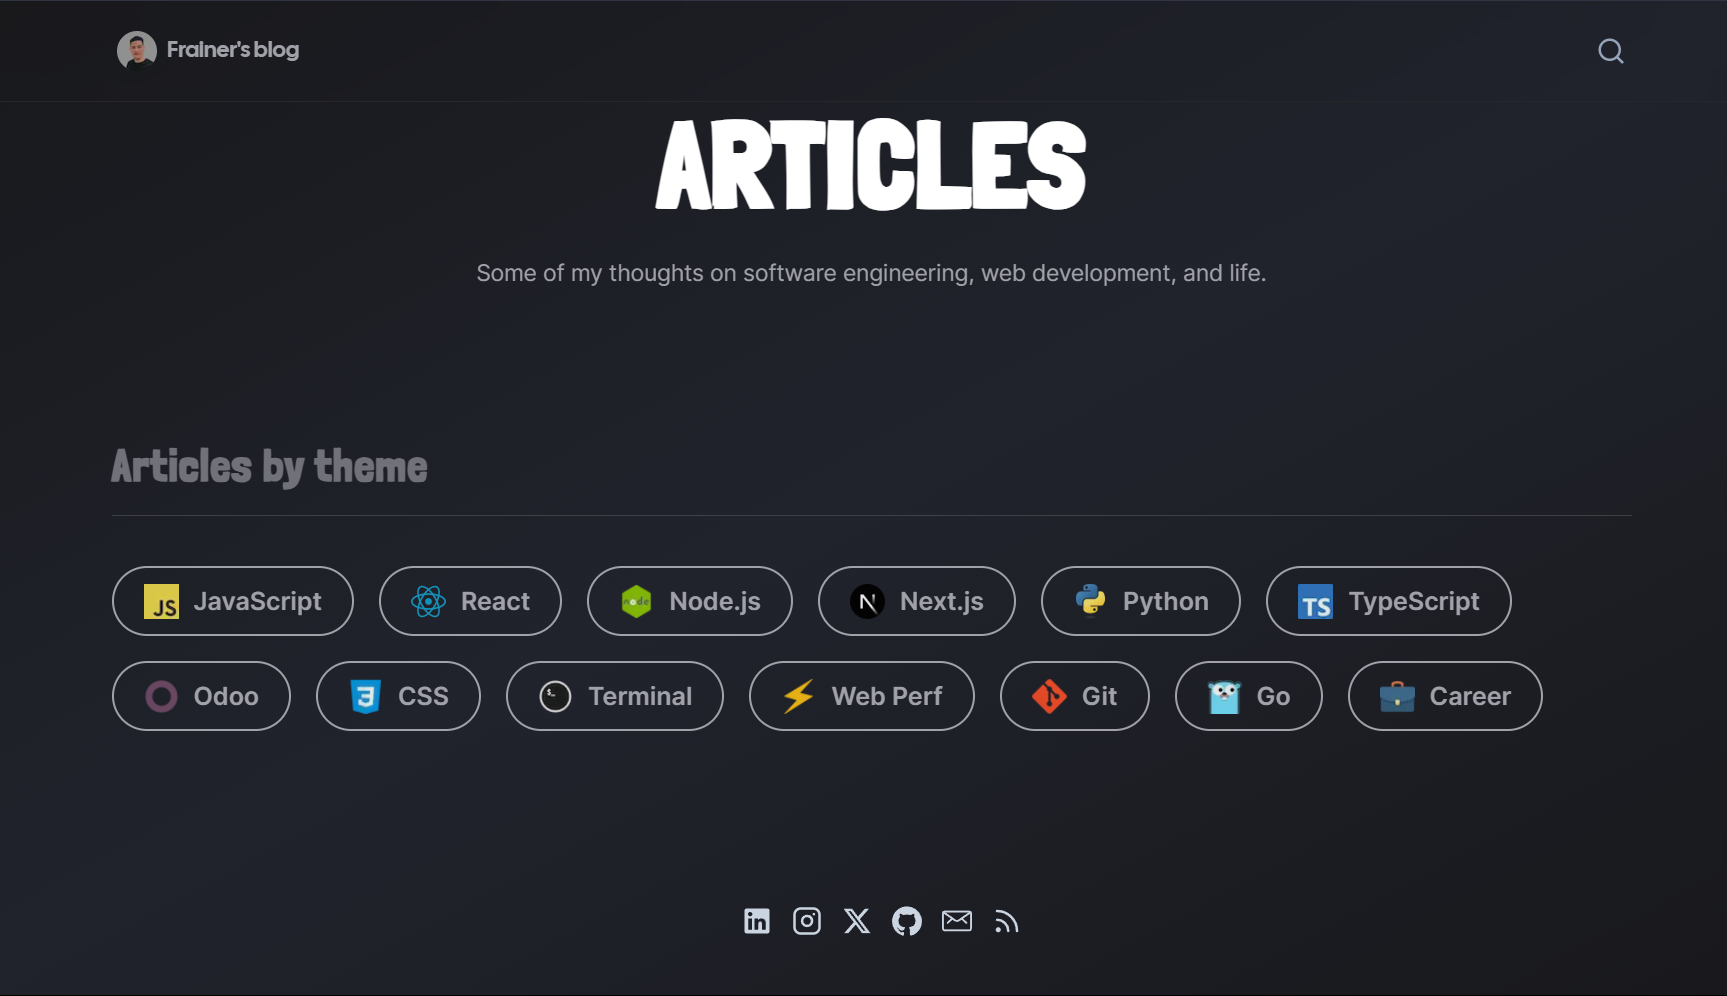
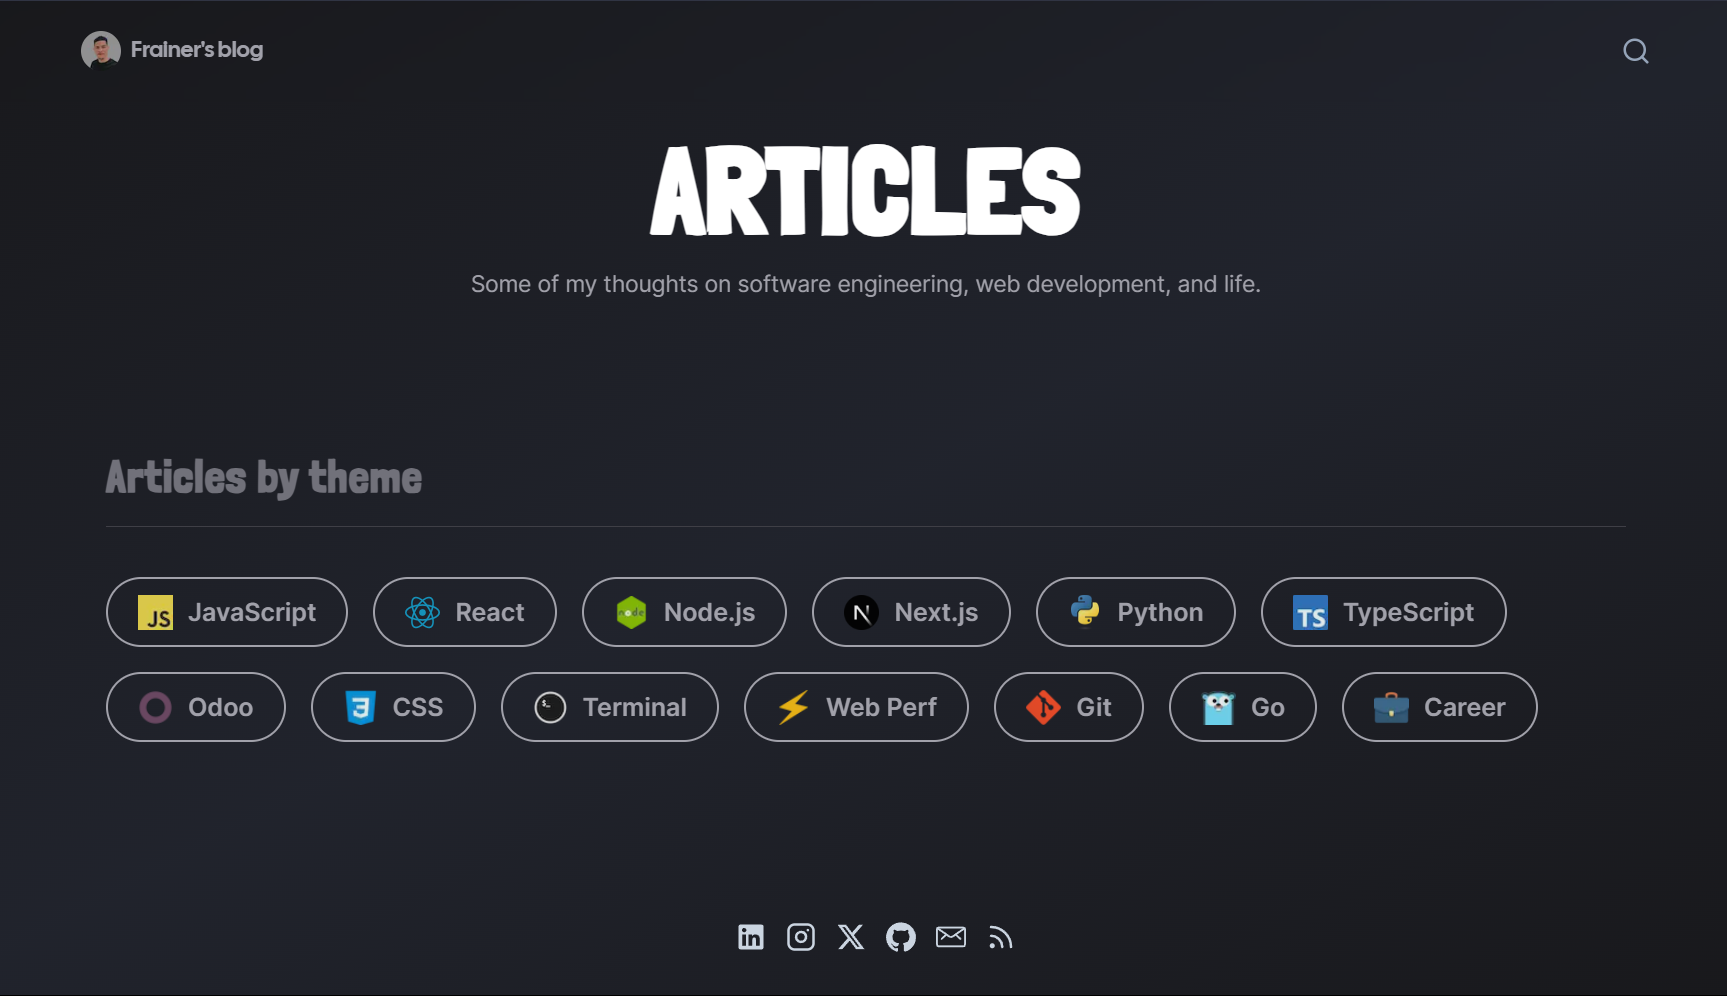
feat: aply all the mobile styles to make the complete web responsive

diff --git a/app/[slug]/page.tsx b/app/[slug]/page.tsx
@@ -77,10 +77,10 @@ export default async function PostPage ({ params }: Props) {
 
   return (
     <>
-      <section className='min-h-screen max-w-4xl mx-auto px-8 text-zinc-300'>
+      <section className='min-h-screen max-w-6xl md:max-w-4xl mx-auto px-4 md:px-8 text-zinc-300'>
         <Header post={post} views={views} />
         <ReportView slug={post.slug} />
-        <header className='mx-auto max-w-3xl text-center content pt-20 sm:pt-28'>
+        <header className='mx-auto max-w-3xl text-center content pt-20 md:pt-28'>
           <h1 className='text-white mb-8'>{post.title}</h1>
         </header>
 
@@ -94,8 +94,8 @@ export default async function PostPage ({ params }: Props) {
           height={427}
         />
 
-        <small className='text-zinc-400 flex flex-col font-bold uppercase sm:flex-row text-center pb-8 place-content-center py-6 px-6'>
-          <span className='mb-2 sm:mb-0'>
+        <small className='text-xs md:text-sm text-zinc-400 flex flex-col font-bold uppercase md:flex-row text-center pb-8 place-content-center py-6 md:px-6'>
+          <span className='mb-2 md:mb-0'>
             {post.updated && <span>Updated on</span>}{' '}
             <time
               dateTime={new Date(post.updated || post.date).toISOString()}
@@ -107,11 +107,29 @@ export default async function PostPage ({ params }: Props) {
                 dateStyle: 'medium'
               }).format(new Date(post.updated || post.date))}
             </time>{' '}
-            <span className='px-4'>•</span>
-            <span>{post.readTime} min read</span>
+            <span className='px-1 md:px-4'>•</span>
+            <span className='me-2 md:me-0'>{post.readTime} min read</span>
+            {post.tags &&
+              post.tags.slice(0, 2).map((tagName, index) => {
+                const tag = allTags.find(tag => tag.name === tagName)
+                return (
+                  <>
+                    <Link
+                      key={index}
+                      href={`/tags/${tag?.name || tagName}`}
+                      className='text-hot-pink font-bold underline underline-offset-4 py-3 md:px-1 hover:text-white text-xs inline md:hidden'
+                    >
+                      {tag?.label || tagName}
+                    </Link>
+                    {index !== (post.tags?.length ?? 0) - 1 && (
+                      <span className='px-1 inline md:hidden'>•</span>
+                    )}
+                  </>
+                )
+              })}
           </span>
-          <span className='hidden px-4 sm:block'>|</span>
-          <div className='flex flex-wrap'>
+          <span className='hidden px-1 md:px-4 md:block'>|</span>
+          <div className='hidden md:flex flex-wrap px-1 text-center place-content-center'>
             {post.tags &&
               post.tags.map((tagName, index) => {
                 const tag = allTags.find(tag => tag.name === tagName)
@@ -119,7 +137,7 @@ export default async function PostPage ({ params }: Props) {
                   <div key={index}>
                     <Link
                       href={`/tags/${tag?.name || tagName}`}
-                      className='text-hot-pink font-bold underline underline-offset-4 py-3 px-1 hover:text-white'
+                      className='text-hot-pink font-medium md:font-bold underline underline-offset-4 py-3 md:px-1 hover:text-white'
                     >
                       {tag?.label || tagName}
                     </Link>
@@ -132,11 +150,11 @@ export default async function PostPage ({ params }: Props) {
           </div>
         </small>
 
-        <article className='px-6 content pb-12'>
+        <article className='px-2 md:px-6 content pb-12'>
           <Mdx code={post.body.code} />
         </article>
+        <Subscribe />
       </section>
-      <Subscribe />
     </>
   )
 }

diff --git a/app/components/search/blog-card.tsx b/app/components/search/blog-card.tsx
@@ -13,39 +13,39 @@ export function BlogCard ({ blog }: Props) {
       tabIndex={0}
       data-testid='blog-search-result'
       href={blog.slug}
-      className='block px-2 focus:outline-none border-slate-600 hover:bg-slate-700 focus:bg-slate-600 rounded max-w-5xl mr-5'
+      className='block px-2 focus:outline-none border-slate-600 hover:bg-slate-700 focus:bg-slate-600 rounded md:max-w-5xl md:mr-5'
     >
       <div className='flex flex-col items-start justify-between py-8 border-slate-700 md:flex-row md:py-5 border-b '>
-        <div className='md:mr-4 w-3/4'>
-          <h1 className='mb-2 break-words text-2xl font-bold leading-normal tracking-tighthn-break-words text-slate-300 font-londrina'>
+        <div className='md:mr-4 md:w-3/4'>
+          <h1 className='mb-2 break-words text-2xl font-bold leading-normal tracking-tighthn-break-words text-slate-300 font-londrina text-center md:text-left'>
             {blog.title}
           </h1>
-          <div className='mb-4 flex flex-row flex-wrap items-center font-medium text-slate-400 pr-5'>
+          <div className='mb-4 flex flex-row flex-wrap items-center font-medium text-slate-400 md:pr-5'>
             <p className='inline-block'>{blog.description}</p>
           </div>
-          <small className='mb-4 text-slate-300 flex flex-col font-bold uppercase sm:flex-row text-center'>
+          <small className='mb-4 text-slate-300 flex flex-col font-semibold md:font-bold uppercase sm:flex-row md:text-center text-sx md:text-sm'>
             <span className='mb-2 sm:mb-0'>
               {blog.updated && <span>Updated on</span>}{' '}
               <time
                 dateTime={new Date(blog.updated || blog.date).toISOString()}
                 className={`${
-                  blog.updated ? 'underline underline-offset-4' : undefined
+                  blog.updated ? 'underline underline-offset-4 text-xs' : undefined
                 }`}
               >
                 {Intl.DateTimeFormat(undefined, {
                   dateStyle: 'medium'
                 }).format(new Date(blog.updated || blog.date))}
               </time>{' '}
-              <span className='px-4'>•</span>
+              <span className='px-1 md:px-4'>•</span>
               <span>{blog.readTime} min read</span>
             </span>
             <span className='hidden px-4 sm:block'>|</span>
-            <div className='flex flex-wrap'>
+            <div className='md:flex flex-wrap text-xs md:text-sm py-2 md:py-0'>
               {blog.tags &&
                 blog.tags.map((tagName, index) => {
                   const tag = allTags.find(tag => tag.name === tagName)
                   return (
-                    <div key={index}>
+                    <span key={index}>
                       <Link
                         href={`/tags/${tag?.name}`}
                         className='text-hot-pink font-bold underline underline-offset-4 py-3 px-1 hover:text-white'
@@ -55,14 +55,14 @@ export function BlogCard ({ blog }: Props) {
                       {index !== (blog.tags?.length ?? 0) - 1 && (
                         <span className='px-1'>•</span>
                       )}
-                    </div>
+                    </span>
                   )
                 })}
             </div>
           </small>
         </div>
         <Image
-          className='w-1/4 shrink-0 rounded-xlmd:w-64 h-full pr-3 rounded-md'
+          className='w-[98%] md:w-1/4 shrink-0 rounded-xlmd:w-64 h-full md:pr-3 rounded-lg'
           alt={blog.title}
           src={blog.hero}
           height={200}

diff --git a/app/components/tags/articles-by-tags.tsx b/app/components/tags/articles-by-tags.tsx
@@ -2,6 +2,7 @@ import Link from 'next/link'
 import { ReactIcon } from '../common/svg-icons'
 import Image from 'next/image'
 import { displayTags, allTags } from '@/util/data'
+import React from 'react'
 
 export function ArticlesByTags ({
   displayAllTags
@@ -15,26 +16,26 @@ export function ArticlesByTags ({
         Articles by theme
       </h2>
       <div className='w-full h-px bg-zinc-700' />
-      <article className='mt-10 flex flex-rows flex-wrap gap-5'>
+      <article className='mt-5 md:mt-10 flex flex-rows flex-wrap gap-2 sm:gap-5'>
         {tags &&
           tags.map((tag, index) => (
             <Link
               key={index}
               href={`/tags/${tag.name}`}
-              className='border-2 border-zinc-400 group hover:border-zinc-100 items-center rounded-full flex h-14 text-xl px-6 relative transition-all'
+              className='border-2 border-zinc-400 group hover:border-zinc-100 items-center rounded-full flex h-8 text-sm px-3 sm:h-14 sm:text-xl sm:px-6 relative transition-all mb-1 md:mb-0'
             >
               {tag.name === 'react' ? (
-                <ReactIcon className='h-7 w-7 text-[#149ECA] opacity-90 group-hover:opacity-100 block align-middle max-w-full' />
+                <ReactIcon className='h-3 w-3 sm:h-7 sm:w-7 text-[#149ECA] opacity-90 group-hover:opacity-100 block align-middle max-w-full' />
               ) : (
                 <Image
                   src={tag.image}
-                  className='h-7 w-7 opacity-90 group-hover:opacity-100 block align-middle max-w-full object-contain'
+                  className='h-3 w-3 sm:h-7 sm:w-7 opacity-90 group-hover:opacity-100 block align-middle max-w-full object-contain'
                   alt={`${tag.label} Logo`}
                   width={28}
                   height={28}
                 />
               )}{' '}
-              <span className='font-semibold text-xl text-zinc-400 pl-3 group-hover:text-zinc-100'>
+              <span className='font-medium sm:font-semibold text-zinc-400 pl-2 sm:pl-3 group-hover:text-zinc-100'>
                 {tag.label}
               </span>
             </Link>

diff --git a/app/layout.tsx b/app/layout.tsx
@@ -5,18 +5,19 @@ import { Metadata } from 'next'
 import { Analytics } from './components/articles/analytics'
 import '../styles/main.scss'
 import Footer from './components/footer/footer'
+import React from 'react'
 
 export const metadata: Metadata = {
   title: {
-    default: "Frainer's Blog",
+    default: "Frainer's Blog 📝",
     template: "%s | Frainer's Blog"
   },
   description:
-    'Some of my thoughts on software engineering, web development, and life. Here you will find articles about JavaScript, React, Python, CSS, Node.js and more.',
+    "I'm Frainer Encarnación, a Full Stack Developer in Dominican Republic. I write about tech, projects and whatever else I'm thinking about! Here you will find articles about JavaScript, React, Python, CSS, Node.js and more.",
   openGraph: {
-    title: "Frainer's Blog | Full Stack Development",
+    title: "Frainer's Blog 📝",
     description:
-      'Some of my thoughts on software engineering, web development, and life. Here you will find articles about JavaScript, React, Python, CSS, Node.js and more.',
+      "I'm Frainer Encarnación, a Full Stack Developer in Dominican Republic. I write about tech, projects and whatever else I'm thinking about!",
     url: 'fraineralex.com/blog',
     siteName: 'fraineralex.com',
     images: [
@@ -41,12 +42,12 @@ export const metadata: Metadata = {
     }
   },
   twitter: {
-    title: "Frainer's Blog | Full Stack Development",
+    title: "Frainer's Blog 📝",
     card: 'summary_large_image',
     creator: '@fraineralex',
     site: '@fraineralex',
     description:
-      'Some of my thoughts on software engineering, web development, and life. Here you will find articles about JavaScript, React, Python, CSS, Node.js and more.'
+      "I'm Frainer Encarnación, a Full Stack Developer in Dominican Republic. I write about tech, projects and whatever else I'm thinking about!"
   },
   icons: {
     shortcut: '/favicon.ico'

diff --git a/app/components/nav/profile-link.tsx b/app/components/nav/profile-link.tsx
@@ -1,11 +1,12 @@
 import Image from 'next/image'
 import Link from 'next/link'
+import React from 'react'
 
 export function ProfileLink ({ className }: { className?: string }) {
   return (
-    <article className='hidden md:block pl-5 group'>
+    <article className='block sm:pl-5 group'>
       <h2
-        className={`blog-title text-lg md:text-lg text-left break-words font-heading font-semibold leading-normal md:font-bold font-calsans ${
+        className={`blog-title text-sm sm:text-lg text-left break-words font-heading font-semibold leading-normal md:font-bold font-calsans ${
           className ? className : 'text-zinc-400  hover:text-zinc-100'
         }`}
       >
@@ -14,7 +15,7 @@ export function ProfileLink ({ className }: { className?: string }) {
           className='focus-ring-base flex flex-row items-center focus-ring-colors-light-header'
           aria-label="Frainer's blog home page"
         >
-          <figure className='mr-2 h-8 w-8 shrink-0 overflow-hidden rounded-full'>
+          <figure className='mr-1 sm:mr-2 h-6 w-6 sm:h-8 sm:w-8 shrink-0 overflow-hidden rounded-full'>
             <span
               style={{
                 boxSizing: 'border-box',

diff --git a/app/page.tsx b/app/page.tsx
@@ -52,13 +52,14 @@ export default async function BlogPage () {
       <Navigation />
       <div className='px-6 pt-20 mx-auto space-y-8 max-w-7xl lg:px-8 md:space-y-16 md:pt-24 lg:pt-26'>
         <header className='mx-auto max-w-2xl text-center content'>
-          <h1 className='font-bold text-zinc-100 font-londrina'>
+          <h1 className='font-bold text-zinc-100 font-londrina pb-2 md:pb-3'>
+            {' '}
             {thereAreFourPosts ? 'Blog Posts' : 'Articles'}
           </h1>
-          <p className='text-zinc-400 -mt-20 text-lg leading-relaxed'>
+          <small className='text-zinc-400 md:text-lg leading-relaxed text-sm'>
             Some of my thoughts on software engineering, web development, and
             life.
-          </p>
+          </small>
         </header>
 
         {thereAreFourPosts && (

diff --git a/app/tags/page.tsx b/app/tags/page.tsx
@@ -8,11 +8,11 @@ export default async function TagsPage () {
       <Navigation />
       <div className='px-6 pt-20 mx-auto space-y-8 max-w-7xl lg:px-8 md:space-y-16 md:pt-24 lg:pt-26'>
         <header className='mx-auto max-w-2xl text-center content pb-14'>
-          <h1 className='font-bold text-zinc-100 font-londrina'>Articles</h1>
-          <p className='text-zinc-400 -mt-20 text-lg leading-relaxed'>
+          <h1 className='font-bold text-zinc-100 font-londrina pb-2 md:pb-3'>Articles</h1>
+          <small className='text-zinc-400 md:text-lg leading-relaxed text-sm'>
             Some of my thoughts on software engineering, web development, and
             life.
-          </p>
+          </small>
         </header>
         <ArticlesByTags displayAllTags />
       </div>

diff --git a/app/components/search/search-result.tsx b/app/components/search/search-result.tsx
@@ -31,7 +31,7 @@ export const SearchResult = ({ searchTerm }: { searchTerm: string }) => {
         >
           <div className='w-full h-full'>
             <div style={{ minWidth: '100%', display: 'table' }}>
-              <div className='mt-2 rounded pb-10 md:mt-5 max-w-5xl mr-5'>
+              <div className='mt-2 rounded pb-10 md:mt-5 md:max-w-5xl md:mr-5'>
                 {filteredPosts.map((blog, index) => (
                   <BlogCard key={index} blog={blog} />
                 ))}

diff --git a/app/tags/[tag]/page.tsx b/app/tags/[tag]/page.tsx
@@ -85,7 +85,7 @@ export default async function BlogPage ({ params }: Props) {
               {tag?.label || tagName}
             </code>
           </h1>
-          <p className='text-zinc-400 -mt-20 text-lg leading-relaxed'>
+          <p className='text-zinc-400 -mt-20 text-xs md:text-lg leading-relaxed'>
             {sortedPosts.length === 0 ? (
               <>
                 ☹ There are no articles about{' '}

diff --git a/styles/site.scss b/styles/site.scss
@@ -51,3 +51,20 @@
 [x-cloak] {
   display: none;
 }
+
+::-webkit-scrollbar {
+  width: 10px;
+}
+
+::-webkit-scrollbar-track {
+  background: transparent;
+}
+
+::-webkit-scrollbar-thumb {
+  background: #3f3f46; 
+  border-radius: 5px;
+}
+
+::-webkit-scrollbar-thumb:hover {
+  background: #4b5563; 
+}

diff --git a/styles/content.scss b/styles/content.scss
@@ -140,11 +140,7 @@
     }
   }
 
-  p {
-    @apply leading-7;
-  }
-
   p:not(:first-child) {
-    @apply mt-6;
+    @apply mt-4 md:mt-6;
   }
 }
